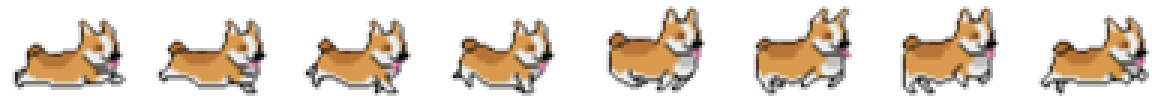
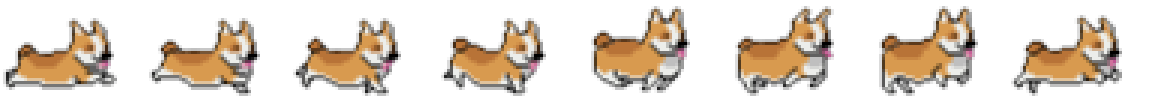
Smooth Kaya's run: steady run-sheet frames, sub-pixel motion at speed
- The run sprite sheet had motion baked in: her body slid right 6-18
  sprite px across frames 5-8 and snapped back when the loop restarted,
  a lurch-and-snap-back every 0.56s while the code also moved her
  forward. Each frame is now shifted so her body sits at the same spot
  (centre 64 of 144, like walk/idle and the flip pivot). Pixels are
  untouched, nothing clipped. This also stops the hop when turning
  mid-run, since run was ~9px off-centre from the other sheets.
- Pixel snapping now applies only to the slow gaits (walk, sniff-walk).
  At run/leap speed, snapping turned into uneven 1px/2px steps, and the
  shimmer it prevents isn't visible at that speed.

diff --git a/script.js b/script.js
@@ -1169,11 +1169,14 @@
       if (right + w <= footEl.clientWidth - 6) hintEl.style.left = Math.round(right) + 'px';
       else hintEl.style.left = Math.round(Math.max(6, x - 10 - w)) + 'px';
     };
-    // x moves in fractional pixels every frame; drawing the downscaled pixel-art sheet at
-    // sub-pixel offsets made her shimmer, so snap what's drawn to whole device pixels
+    // x moves in fractional pixels every frame. At walking pace, drawing the downscaled pixel-art
+    // sheet at slowly creeping sub-pixel offsets makes her shimmer, so slow gaits snap to whole
+    // device pixels. Running and leaping stay sub-pixel: at that speed snapping turns into uneven
+    // 1px/2px steps (choppy), and the shimmer it prevents isn't visible anyway.
     var snap = function (v) { var r = window.devicePixelRatio || 1; return Math.round(v * r) / r; };
     var place = function () {
-      dog.style.transform = 'translateX(' + snap(x) + 'px) scaleX(' + dir + ')';
+      var fast = state === 'run' || state === 'jump';
+      dog.style.transform = 'translateX(' + (fast ? x : snap(x)) + 'px) scaleX(' + dir + ')';
       if (padEl) padEl.style.left = Math.round(x + MID) + 'px';
       if (hintEl) positionHint();
     };
